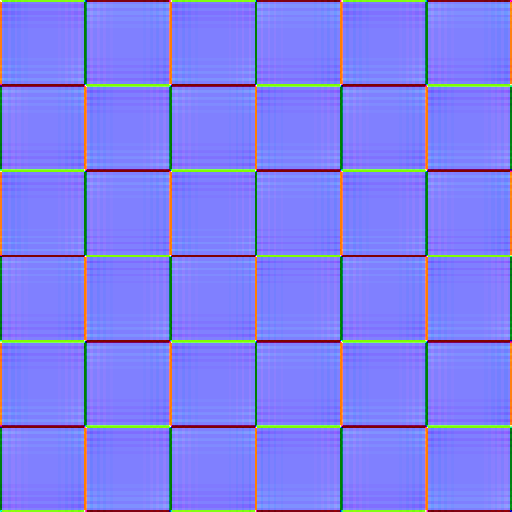
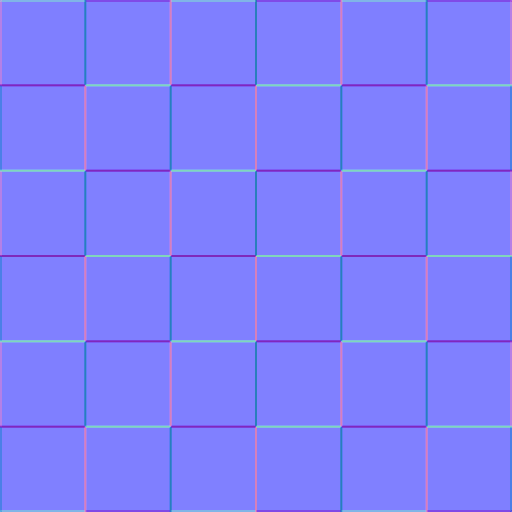
Bump map added for floor

Changed region(s): [[0.0, 0.0, 1.0, 1.0], [0.4688, 0.4688, 0.5312, 0.5312]]

diff --git a/Project/sources/Model.cpp b/Project/sources/Model.cpp
@@ -164,6 +164,10 @@ std::vector<Texture> Model::loadMaterialTextures(aiMaterial *mat, aiTextureType 
             texture.type = typeName;
             texture.path = str.C_Str();
             textures.push_back(texture);
+            std::cout << "texture file: " << str.C_Str() << std::endl;
+            std::cout << "texture name: " << texture.type << std::endl;
+            std::cout << "texture id: " << texture.id << std::endl;
+            std::cout << "texture path: " << texture.path << std::endl;
             textures_loaded.push_back(texture); // add to loaded textures
         }
     }

diff --git a/Project/sources/Mesh.cpp b/Project/sources/Mesh.cpp
@@ -64,7 +64,7 @@ void Mesh::Draw(Shader& shader, int apply) {
                 number = std::to_string(specularNr++);
             else if (name == "texture_normal")
                 number = std::to_string(normalNr++);
-            shader.setInt(("material." + name + number).c_str(), i);
+            shader.setInt((name + number).c_str(), i);
             glBindTexture(GL_TEXTURE_2D, textures[i].id);
         }
     }
